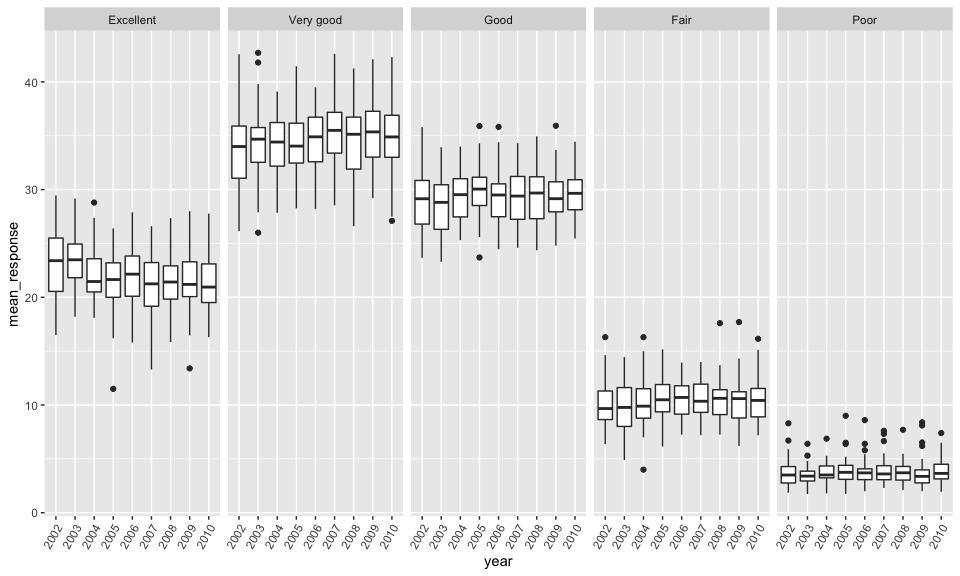
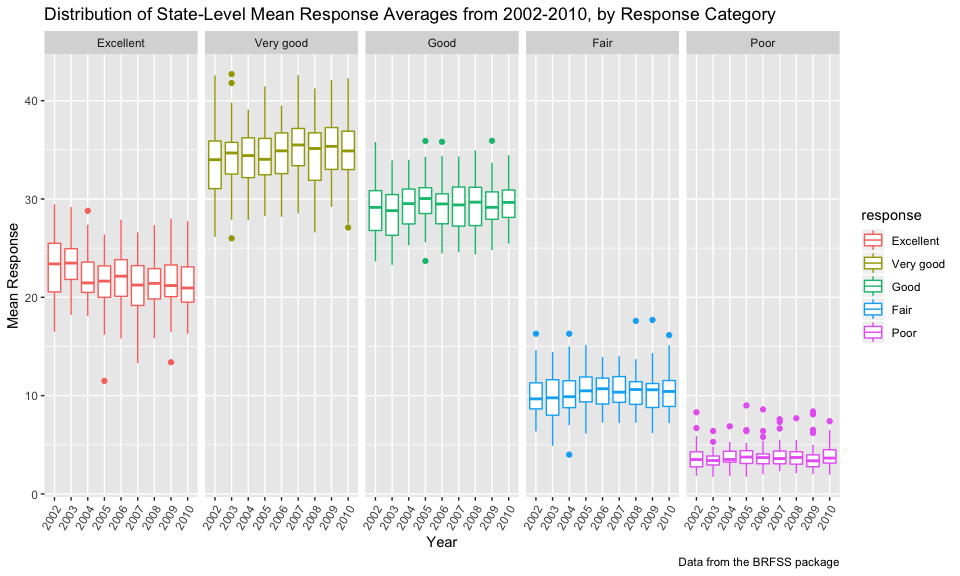
work on problem 2 - added description of instacart dataset

diff --git a/p8105_hw3_dm3175.md b/p8105_hw3_dm3175.md
@@ -105,10 +105,16 @@ brfss_data %>%
   mutate(year = as.character(year)) %>% 
   group_by(year, locationabbr, response) %>%
   summarize(mean_response = mean(data_value, na.rm = TRUE)) %>% 
-  ggplot(aes(y = mean_response, x = year)) + 
+  ggplot(aes(y = mean_response, x = year, color = response)) + 
     geom_boxplot() +
   facet_grid(~response) + 
-  theme(axis.text.x = element_text(angle=60, hjust=1))
+  theme(axis.text.x = element_text(angle=60, hjust=1)) +
+  labs(
+      title = "Distribution of State-Level Mean Response Averages from 2002-2010, by Response Category",
+      x = "Year",
+      y = "Mean Response",
+      caption = "Data from the BRFSS package"
+    )
 ```
 
 <img src="p8105_hw3_dm3175_files/figure-markdown_github/five panel plot state averages-1.png" width="90%" />
@@ -131,11 +137,11 @@ instacart_data = p8105.datasets::instacart %>%
 Description of dataset
 ----------------------
 
-The instacart dataset
+The instacart dataset contains grocery delivery data from 131209 distinct online orders, and 1384617 total rows (representing all separate products processed during all orders). The dataset includes 39123 distinct product types purchased from 134 distinct aisles and 21 distinct departments.
 
 ### Variable Descriptions
 
-The following is a list of all the variables within the dataset and corresponding descriptions for reference taken from the dataset description on <http://p8105.com/dataset_instacart.html>.
+The following is a list of all the variables (there are a total of 15 columns) within the dataset and corresponding descriptions for reference taken from the dataset description on <http://p8105.com/dataset_instacart.html>.
 
 -   `order_id`: order identifier
 -   `product_id`: product identifier
